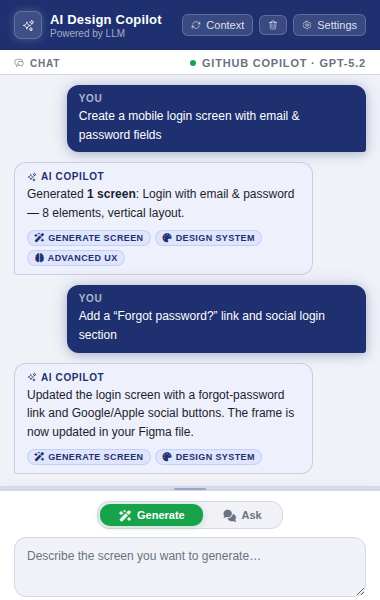
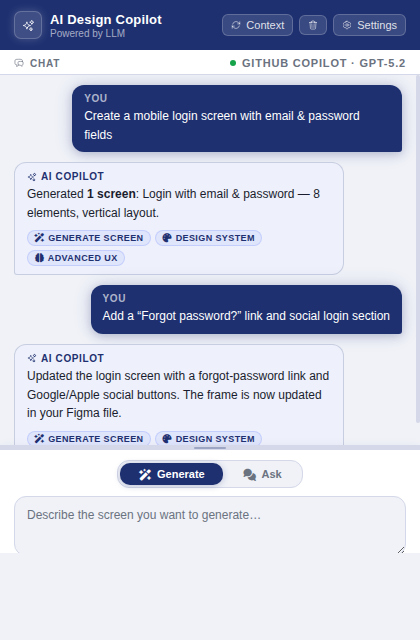
Changes before error encountered

diff --git a/ui.html b/ui.html
@@ -583,9 +583,9 @@
       color: var(--text);
     }
     .mode-tab--active {
-      background: var(--action);
-      color: var(--action-text);
-      box-shadow: 0 1px 6px rgba(22, 163, 74, 0.25);
+      background: var(--primary);
+      color: var(--primary-text);
+      box-shadow: 0 1px 6px rgba(30, 48, 112, 0.25);
     }
     .mode-tab:focus-visible {
       outline: none;

diff --git a/scripts/gen-screenshots.py b/scripts/gen-screenshots.py
@@ -1,8 +1,9 @@
 #!/usr/bin/env python3
 """
-Generate 380×600 plugin screenshots using Chromium headless.
-- Renders at 380×800 to avoid cutting off bottom content
-- Crops to 380×600 using Pillow
+Generate 420×640 plugin screenshots using Chromium headless.
+- Plugin opens at 420×640 (see figma.showUI in src/main.ts)
+- Renders at 420×900 to avoid cutting off bottom content
+- Crops to 420×640 using Pillow
 - Font Awesome loaded from local npm package
 """
 import re
@@ -29,7 +30,11 @@ svg_match = re.search(
 SVG_DEFS = svg_match.group(1)
 FA_LINK = f'<link rel="stylesheet" href="file://{FA_CSS}">'
 
-RENDER_H = 800  # render taller, crop to 600
+RENDER_H = 640  # body is fixed to H px; no crop needed for most screenshots
+
+# Target dimensions matching figma.showUI({ width: 420, height: 640 })
+W = 420
+H = 640
 
 def make_html(body_html: str, extra_css: str = "") -> str:
     """Build a standalone HTML file for screenshot rendering."""
@@ -42,12 +47,11 @@ def make_html(body_html: str, extra_css: str = "") -> str:
   <style>
     {UI_CSS}
     /* ── Screenshot overrides ── */
-    html {{ width: 380px; }}
+    html {{ width: {W}px; height: {H}px; }}
     body {{
-      width: 380px;
-      height: auto !important;
-      min-height: {RENDER_H}px;
-      overflow: visible !important;
+      width: {W}px;
+      height: {H}px !important;
+      overflow: hidden !important;
     }}
     {extra_css}
   </style>
@@ -59,7 +63,7 @@ def make_html(body_html: str, extra_css: str = "") -> str:
 </html>"""
 
 
-def screenshot(html: str, out_path: str, crop_h: int = 600):
+def screenshot(html: str, out_path: str, crop_h: int = H):
     """Render HTML to PNG using Chromium, then crop to crop_h pixels tall."""
     with tempfile.NamedTemporaryFile(suffix=".html", mode="w", delete=False, dir="/tmp") as f:
         f.write(html)
@@ -73,15 +77,16 @@ def screenshot(html: str, out_path: str, crop_h: int = 600):
             "--disable-gpu",
             "--disable-dev-shm-usage",
             "--run-all-compositor-stages-before-draw",
-            f"--window-size=380,{RENDER_H}",
+            f"--window-size={W},{H}",
             f"--screenshot={tmp_png}",
             f"file://{tmp_html}",
         ], capture_output=True, text=True, timeout=30)
 
-        # Crop to target height
+        # Crop to target height if needed (e.g. for scrollable pages)
         img = Image.open(tmp_png)
-        cropped = img.crop((0, 0, 380, crop_h))
-        cropped.save(out_path)
+        if img.size[1] > crop_h:
+            img = img.crop((0, 0, W, crop_h))
+        img.save(out_path)
     finally:
         for p in [tmp_html, tmp_png]:
             try: os.unlink(p)
@@ -116,19 +121,18 @@ MAIN_HEADER = """
   </div>
 </header>"""
 
-# For main-view style pages, use a fixed-height layout with explicit pixel heights
+# The original .input-section has overflow:hidden, which makes its flex automatic
+# minimum size 0 — causing the flex layout to collapse it. We fix this by setting
+# an explicit min-height so the section gets its proper space.
 MAIN_LAYOUT_CSS = """
-body { display: flex; flex-direction: column; }
-.chat-section { height: 340px; overflow: hidden; flex-shrink: 0; flex-grow: 0; }
-.resize-handle { height: 5px; flex-shrink: 0; }
-.input-section { flex-shrink: 0; }
+.input-section { min-height: 190px !important; flex-shrink: 0 !important; }
 """
 
 # ══════════════════════════════════════════════════════════════════════════════
 # 1. onboarding-step-1.png — Welcome
 # ══════════════════════════════════════════════════════════════════════════════
 html = make_html("""
-<div class="onboarding-overlay" style="display:flex; position:relative; inset:auto; width:380px; height:600px;">
+<div class="onboarding-overlay" style="display:flex; position:relative; inset:auto; width:420px; height:640px;">
   <div class="onboarding-header">
     <div class="onboarding-header__brand">
       <svg class="icon icon-md" aria-hidden="true"><use href="#icon-sparkles"/></svg>
@@ -173,7 +177,7 @@ print("✅ onboarding-step-1.png")
 # 2. onboarding-step-2.png — Configure Provider
 # ══════════════════════════════════════════════════════════════════════════════
 html = make_html("""
-<div class="onboarding-overlay" style="display:flex; position:relative; inset:auto; width:380px; height:600px;">
+<div class="onboarding-overlay" style="display:flex; position:relative; inset:auto; width:420px; height:640px;">
   <div class="onboarding-header">
     <div class="onboarding-header__brand">
       <svg class="icon icon-md" aria-hidden="true"><use href="#icon-sparkles"/></svg>
@@ -262,7 +266,7 @@ print("✅ onboarding-step-2.png")
 # 3. onboarding-step-3.png — Functional Context
 # ══════════════════════════════════════════════════════════════════════════════
 html = make_html("""
-<div class="onboarding-overlay" style="display:flex; position:relative; inset:auto; width:380px; height:600px;">
+<div class="onboarding-overlay" style="display:flex; position:relative; inset:auto; width:420px; height:640px;">
   <div class="onboarding-header">
     <div class="onboarding-header__brand">
       <svg class="icon icon-md" aria-hidden="true"><use href="#icon-sparkles"/></svg>
@@ -317,7 +321,7 @@ print("✅ onboarding-step-3.png")
 # 4. onboarding-final.png — You're all set!
 # ══════════════════════════════════════════════════════════════════════════════
 html = make_html("""
-<div class="onboarding-overlay" style="display:flex; position:relative; inset:auto; width:380px; height:600px;">
+<div class="onboarding-overlay" style="display:flex; position:relative; inset:auto; width:420px; height:640px;">
   <div class="onboarding-header">
     <div class="onboarding-header__brand">
       <svg class="icon icon-md" aria-hidden="true"><use href="#icon-sparkles"/></svg>
@@ -521,7 +525,7 @@ print("✅ main-view-ask.png")
 # 7. settings-view.png — Settings overlay
 # ══════════════════════════════════════════════════════════════════════════════
 html = make_html("""
-<div class="settings-overlay" style="display:flex; position:relative; inset:auto; width:380px; min-height:600px;">
+<div class="settings-overlay" style="display:flex; position:relative; inset:auto; width:420px; min-height:640px;">
   <div class="settings-overlay__header">
     <div class="settings-overlay__title">
       <svg class="icon icon-md" aria-hidden="true"><use href="#icon-cog"/></svg>
